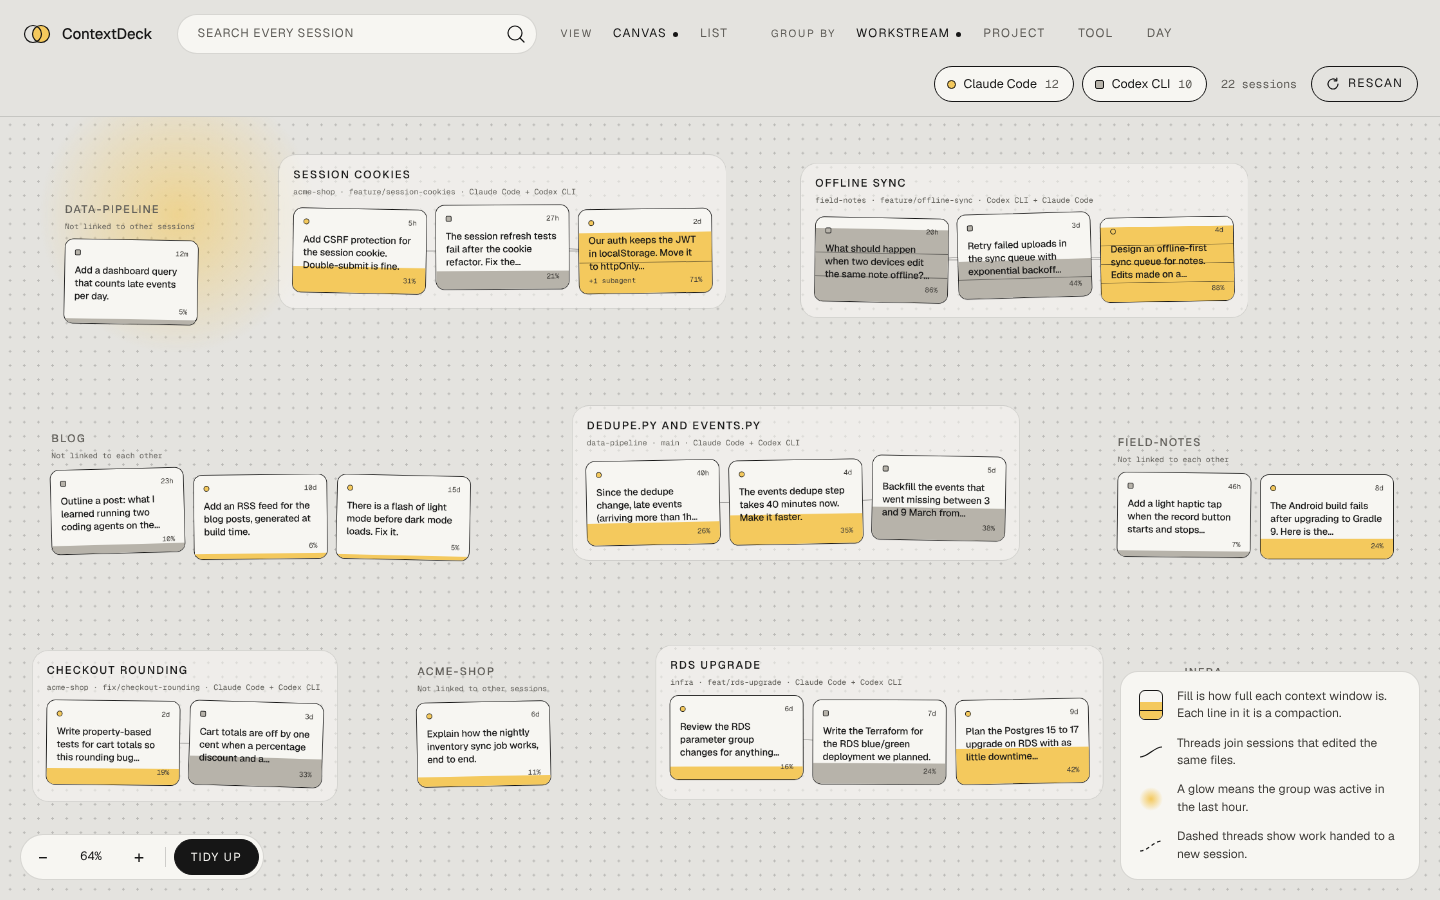
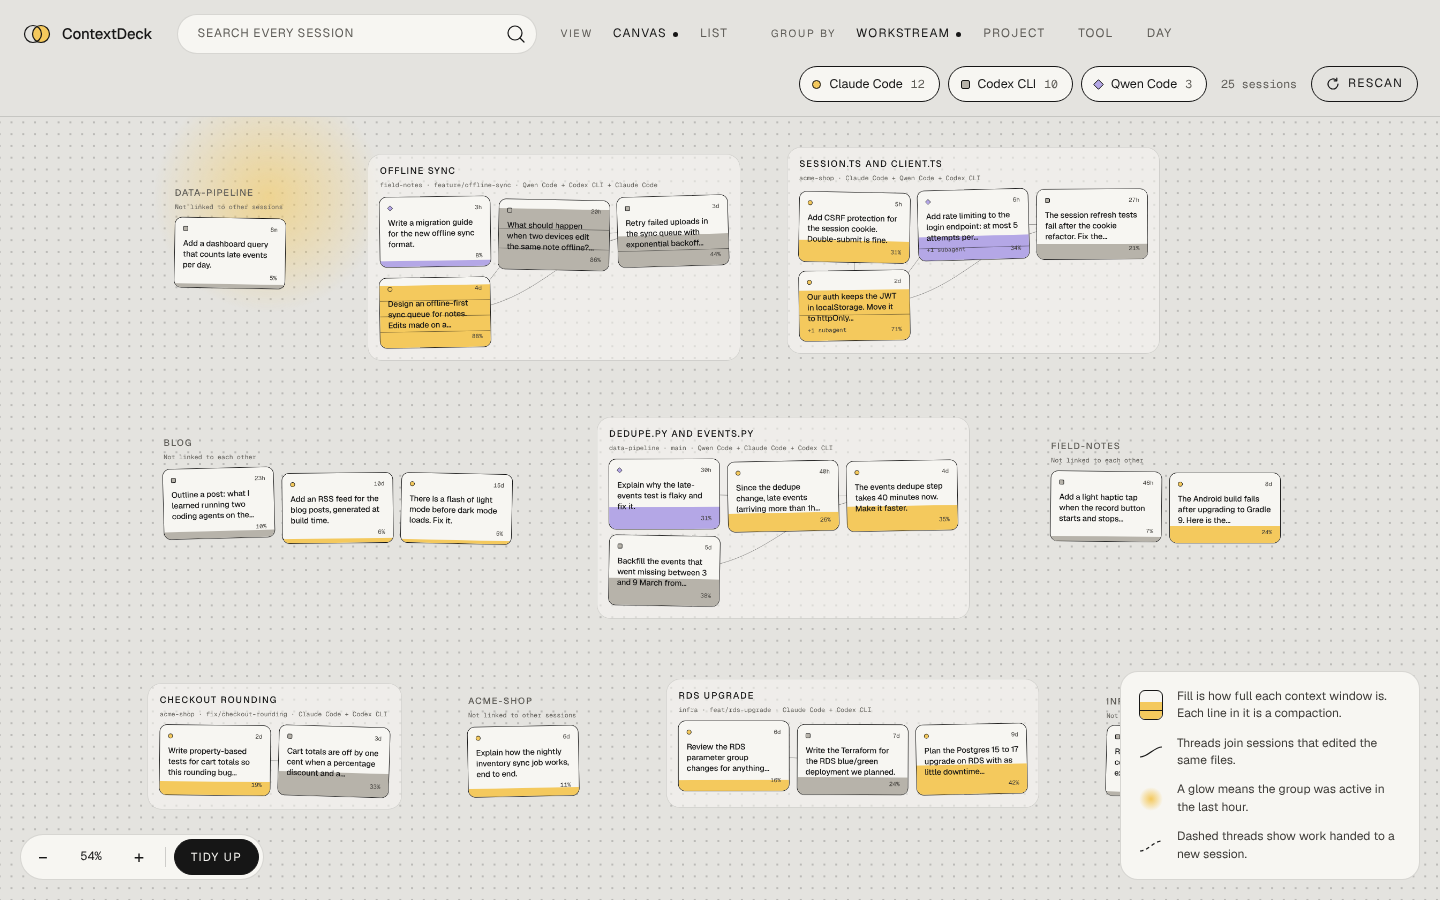
Show Qwen Code in the README canvas screenshot
Claude-Session: https://claude.ai/code/session_01NswAMs3hcEiDVN6xnLNAFa

diff --git a/README.md b/README.md
@@ -8,7 +8,7 @@ If you use more than one coding agent, your context is scattered: Claude Code ke
 contextdeck ui
 ```
 
-![The ContextDeck canvas: sessions from Claude Code (yellow) and Codex (grey) as cards on a dotted board, grouped into workstreams like "session cookies" and "offline sync". Each card fills up to show how full its context window is.](docs/images/canvas.png)
+![The ContextDeck canvas: sessions from Claude Code (yellow), Codex (grey) and Qwen Code (violet) as cards on a dotted board, grouped into workstreams like "session cookies" and "offline sync". Each card fills up to show how full its context window is.](docs/images/canvas.png)
 
 Every session is a card on a canvas. Cards from both tools gather into **workstreams**: sessions that edited the same files or ran on the same feature branch, whichever tool they ran in. Each card **fills up like a glass** to show how full its context window is, with a line for every time it was compacted, and groups that were active in the last hour **glow**. Drag cards wherever you like and ContextDeck remembers, or **Tidy up** into a neat grid. Click one to read it: how its context grew turn by turn, what it changed, what it's related to, and how to jump back in.
 
